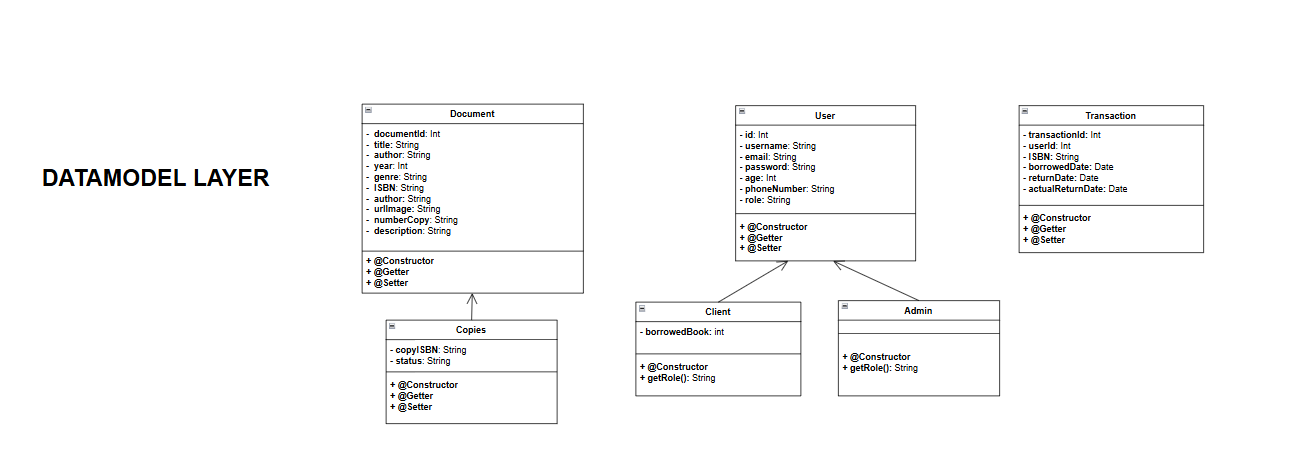
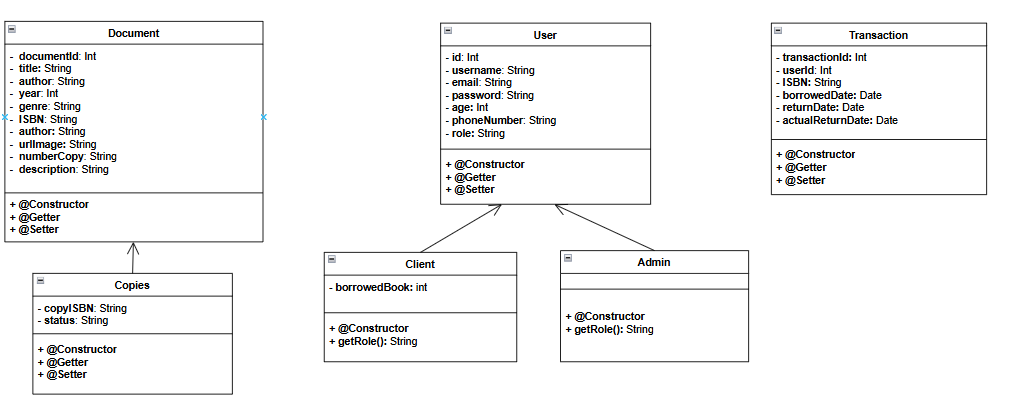
Update README.md file

diff --git a/src/main/java/com/example/DAO/TransactionDaoImpl.java b/src/main/java/com/example/DAO/TransactionDaoImpl.java
@@ -13,7 +13,7 @@ import java.util.List;
  */
 public class TransactionDaoImpl implements TransactionDao {
 
-    private Connection con;
+    private final Connection con;
 
     /**
      * Constructor that initializes the database connection.
@@ -145,21 +145,7 @@ public class TransactionDaoImpl implements TransactionDao {
         return trans;
     }
 
-    /**
-     * Deletes a transaction by its transaction ID.
-     *
-     * @param transactionId the transaction ID
-     */
-    @Override
-    public void deleteTransaction(int transactionId) {
-        String sql = "DELETE FROM transactions WHERE transaction_id = ?";
-        try (PreparedStatement pstmt = con.prepareStatement(sql)) {
-            pstmt.setInt(1, transactionId);
-            pstmt.executeUpdate();
-        } catch (SQLException e) {
-            e.printStackTrace();
-        }
-    }
+
 
     /**
      * Marks a book as returned by updating the transaction and book status.
@@ -197,80 +183,5 @@ public class TransactionDaoImpl implements TransactionDao {
         } catch (SQLException e) {
             e.printStackTrace();
         }
-    }
-
-    /**
-     * Retrieves a transaction by its transaction ID.
-     *
-     * @param transactionId the transaction ID
-     * @return the transaction if found, otherwise null
-     */
-    @Override
-    public Transaction getTransactionById(int transactionId) {
-        String sql = "SELECT * FROM transactions WHERE transaction_id = ?";
-        try (PreparedStatement pstmt = con.prepareStatement(sql)) {
-            pstmt.setInt(1, transactionId);
-            ResultSet rs = pstmt.executeQuery();
-            if (rs.next()) {
-                return new Transaction(
-                        rs.getInt("transaction_id"),
-                        rs.getInt("user_id"),
-                        rs.getString("copy_ISBN"),
-                        rs.getDate("borrowed_date"),
-                        rs.getDate("return_date"),
-                        rs.getDate("actual_return_date")
-                );
-            }
-        } catch (SQLException e) {
-            e.printStackTrace();
-        }
-        return null;
-    }
-
-    /**
-     * Updates the actual return date of a transaction.
-     *
-     * @param transactionId the transaction ID
-     * @param returnDate    the new return date
-     */
-    @Override
-    public void updateReturnDate(int transactionId, LocalDate returnDate) {
-        String sql = "UPDATE transactions SET actual_return_date = ? WHERE transaction_id = ?";
-        try (PreparedStatement pstmt = con.prepareStatement(sql)) {
-            pstmt.setDate(1, Date.valueOf(returnDate));
-            pstmt.setInt(2, transactionId);
-            pstmt.executeUpdate();
-        } catch (SQLException e) {
-            e.printStackTrace();
-        }
-    }
-
-    /**
-     * Retrieves all overdue transactions.
-     *
-     * @return a list of overdue transactions
-     */
-    @Override
-    public List<Transaction> getOverdueTransactions() {
-        List<Transaction> transactions = new ArrayList<>();
-        String sql = "SELECT * FROM transactions WHERE return_date < CURRENT_DATE AND actual_return_date IS NULL";
-
-        try (PreparedStatement pstmt = con.prepareStatement(sql)) {
-            ResultSet rs = pstmt.executeQuery();
-            while (rs.next()) {
-                Transaction transaction = new Transaction(
-                        rs.getInt("transaction_id"),
-                        rs.getInt("user_id"),
-                        rs.getString("copy_ISBN"),
-                        rs.getDate("borrowed_date"),
-                        rs.getDate("return_date"),
-                        rs.getDate("actual_return_date")
-                );
-                transactions.add(transaction);
-            }
-        } catch (SQLException e) {
-            e.printStackTrace();
-        }
-        return transactions;
     }
 }

diff --git a/src/main/java/com/example/Interface/TransactionDao.java b/src/main/java/com/example/Interface/TransactionDao.java
@@ -27,12 +27,6 @@ public interface TransactionDao {
      */
     public List<Transaction> getTransactionsByUserId(int userId);
 
-    /**
-     * Deletes a transaction from the system.
-     *
-     * @param transactionId The ID of the transaction to delete.
-     */
-    public void deleteTransaction(int transactionId);
 
     /**
      * Adds a transaction for a user borrowing a document identified by its ISBN.
@@ -47,36 +41,14 @@ public interface TransactionDao {
      *
      * @return A list of all transactions.
      */
-    public List<Transaction> getAllTransaction();
+    List<Transaction> getAllTransaction();
 
     /**
      * Marks a document as returned by a user, updating the transaction.
      *
      * @param userId The ID of the user returning the document.
-     * @param ISBN   The ISBN of the document being returned.
+     * @param copyISBN   The ISBN of the document being returned.
      */
-    public void returnBook(int userId, String ISBN);
+    public void returnBook(int userId, String copyISBN);
 
-    /**
-     * Retrieves a transaction by its ID.
-     *
-     * @param transactionId The ID of the transaction to retrieve.
-     * @return The transaction with the specified ID, or {@code null} if not found.
-     */
-    Transaction getTransactionById(int transactionId);
-
-    /**
-     * Updates the return date for a specific transaction.
-     *
-     * @param transactionId The ID of the transaction to update.
-     * @param returnDate   The new return date to set.
-     */
-    void updateReturnDate(int transactionId, LocalDate returnDate);
-
-    /**
-     * Retrieves all overdue transactions where the return date has passed.
-     *
-     * @return A list of overdue transactions.
-     */
-    List<Transaction> getOverdueTransactions();
 }

diff --git a/src/main/java/com/example/DAO/UserDaoImpl.java b/src/main/java/com/example/DAO/UserDaoImpl.java
@@ -316,5 +316,36 @@ public class UserDaoImpl implements UserDao {
     }
 
 
+    /**
+     * Get Client by Email
+     */
+    @Override
+    public Client getClientByEmail(String email){
+        Client client = null;
+        String query = "SELECT * FROM users WHERE email = ? AND role = 'client'";
+        try (PreparedStatement stmt = con.prepareStatement(query)) {
+            // Set the email parameter
+            stmt.setString(1, email);
 
+            // Execute the query
+            ResultSet rs = stmt.executeQuery();
+
+            // Check if a result is returned
+            if (rs.next()) {
+                // Create Client object and map the result set to the Client fields
+                client = new Client();
+                client.setId(rs.getInt("id"));
+                client.setEmail(rs.getString("email"));
+                client.setUsername(rs.getString("username"));
+                client.setAge(rs.getInt("age"));
+                client.setPassword(rs.getString("password"));
+                client.setPhoneNumber(rs.getString("phoneNumber"));
+                client.setRole(rs.getString("role"));
+            }
+        } catch (SQLException e) {
+            e.printStackTrace();
+        }
+
+        return client;  // Return the client object or null if not found
+    }
 }

diff --git a/src/main/java/com/example/Interface/DocumentDao.java b/src/main/java/com/example/Interface/DocumentDao.java
@@ -51,10 +51,10 @@ public interface DocumentDao {
     /**
      * Checks if a book (document) is available based on its ISBN.
      *
-     * @param ISBN The ISBN of the book to check availability for.
+     * @param copyISBN The ISBN of the book to check availability for.
      * @return {@code true} if the book is available, {@code false} otherwise.
      */
-    boolean isBookAvailable(String ISBN);
+    boolean isBookAvailable(String copyISBN);
 
     /**
      * Retrieves a document by its ISBN.

diff --git a/src/main/java/com/example/Model/Client.java b/src/main/java/com/example/Model/Client.java
@@ -14,6 +14,11 @@ public class Client extends User {
     public Client(String email, String username, String phoneNumber,int age){
         super(email,username,phoneNumber,age);
     }
+
+    public Client() {
+        super();
+    }
+
     public int getBorrowedBook() {
         return borrowedBook;
     }

diff --git a/src/main/java/com/example/Interface/UserDao.java b/src/main/java/com/example/Interface/UserDao.java
@@ -102,4 +102,6 @@ public interface UserDao {
      * @param updatePass The new password to set.
      */
     void updatePassword(int userId, String updatePass);
+
+    Client getClientByEmail(String emailInput);
 }

diff --git a/src/main/java/com/example/Service/UserService.java b/src/main/java/com/example/Service/UserService.java
@@ -84,4 +84,8 @@ public class UserService {
             return "";
         }
     }
+
+    public Client getClientByEmail(String emailInput) {
+        return userDao.getClientByEmail(emailInput);
+    }
 }

diff --git a/src/main/java/com/example/Model/User.java b/src/main/java/com/example/Model/User.java
@@ -100,6 +100,10 @@ public class User {
         this.age = age;
     }
 
+    public User() {
+
+    }
+
     // Getter và Setter cho các thuộc tính
     public int getId() {
         return id;

diff --git a/README.md b/README.md
@@ -29,8 +29,8 @@ Các tính năng nổi bật của ứng dụng bao gồm:
 - **Quản lý mượn/trả sách**: Xử lý các yêu cầu mượn sách và trả sách từ người dùng.
 - **Tìm kiếm nâng cao**:
     - Tìm kiếm và thêm sách theo API.
-    - Tìm kiếm sách theo tiêu chí (tên sách, tác gi ả, thể loại,...).
-    - 
+    - Tìm kiếm sách theo tiêu chí (tên sách, tác giả, thể loại,...).
+
 ### 📚 Dành cho Client (Người dùng)
 - **Tìm kiếm sách**:
     - Tìm kiếm sách theo tên, tác giả, hoặc thể loại.
@@ -38,15 +38,42 @@ Các tính năng nổi bật của ứng dụng bao gồm:
 - **Xem lịch sử mượn sách**:
     - Hiển thị danh sách các sách đã mượn và trả.
     - Kiểm tra thời hạn trả sách.
+- **Đăng ký && Đăng nhập tài khoản**:
+    - Đăng ký và đăng nhập tài khoản với email và password.
 
 ---
 
 ## 🏗 Cấu trúc ứng dụng
 
-### 📦 Models
-Các model chính trong ứng dụng được thể hiện qua UML sau:
+### 📦 Class Model
+
+- `Kiến trúc của APP được thiết kế theo 3 lớp`:
+  - `Data Access Layer (DAL)`: DAO - quản lý truy cập dữ liệu.
+  - `Service`: Chứa logic nghiệp vụ và gọi DAO.
+  - `Controller` : Tiếp nhận sự kiện từ người dùng và gọi service để xử lý.
+
+**Các model chính trong ứng dụng được thể hiện qua UML sau:**
     
+###  Class Model
+
 ![img.png](src/main/resources/Image/uml-model.png)
+
+
+###  Database Model
+
+![img.png](src/main/resources/Image/db-model.png)
+
+
+### DAO Model
+
+![img.png](src/main/resources/Image/DAO-model.png)
+
+
+
+
+
+
+
 
 ### 🧩 Use Cases
 Các trường hợp sử dụng chính:
